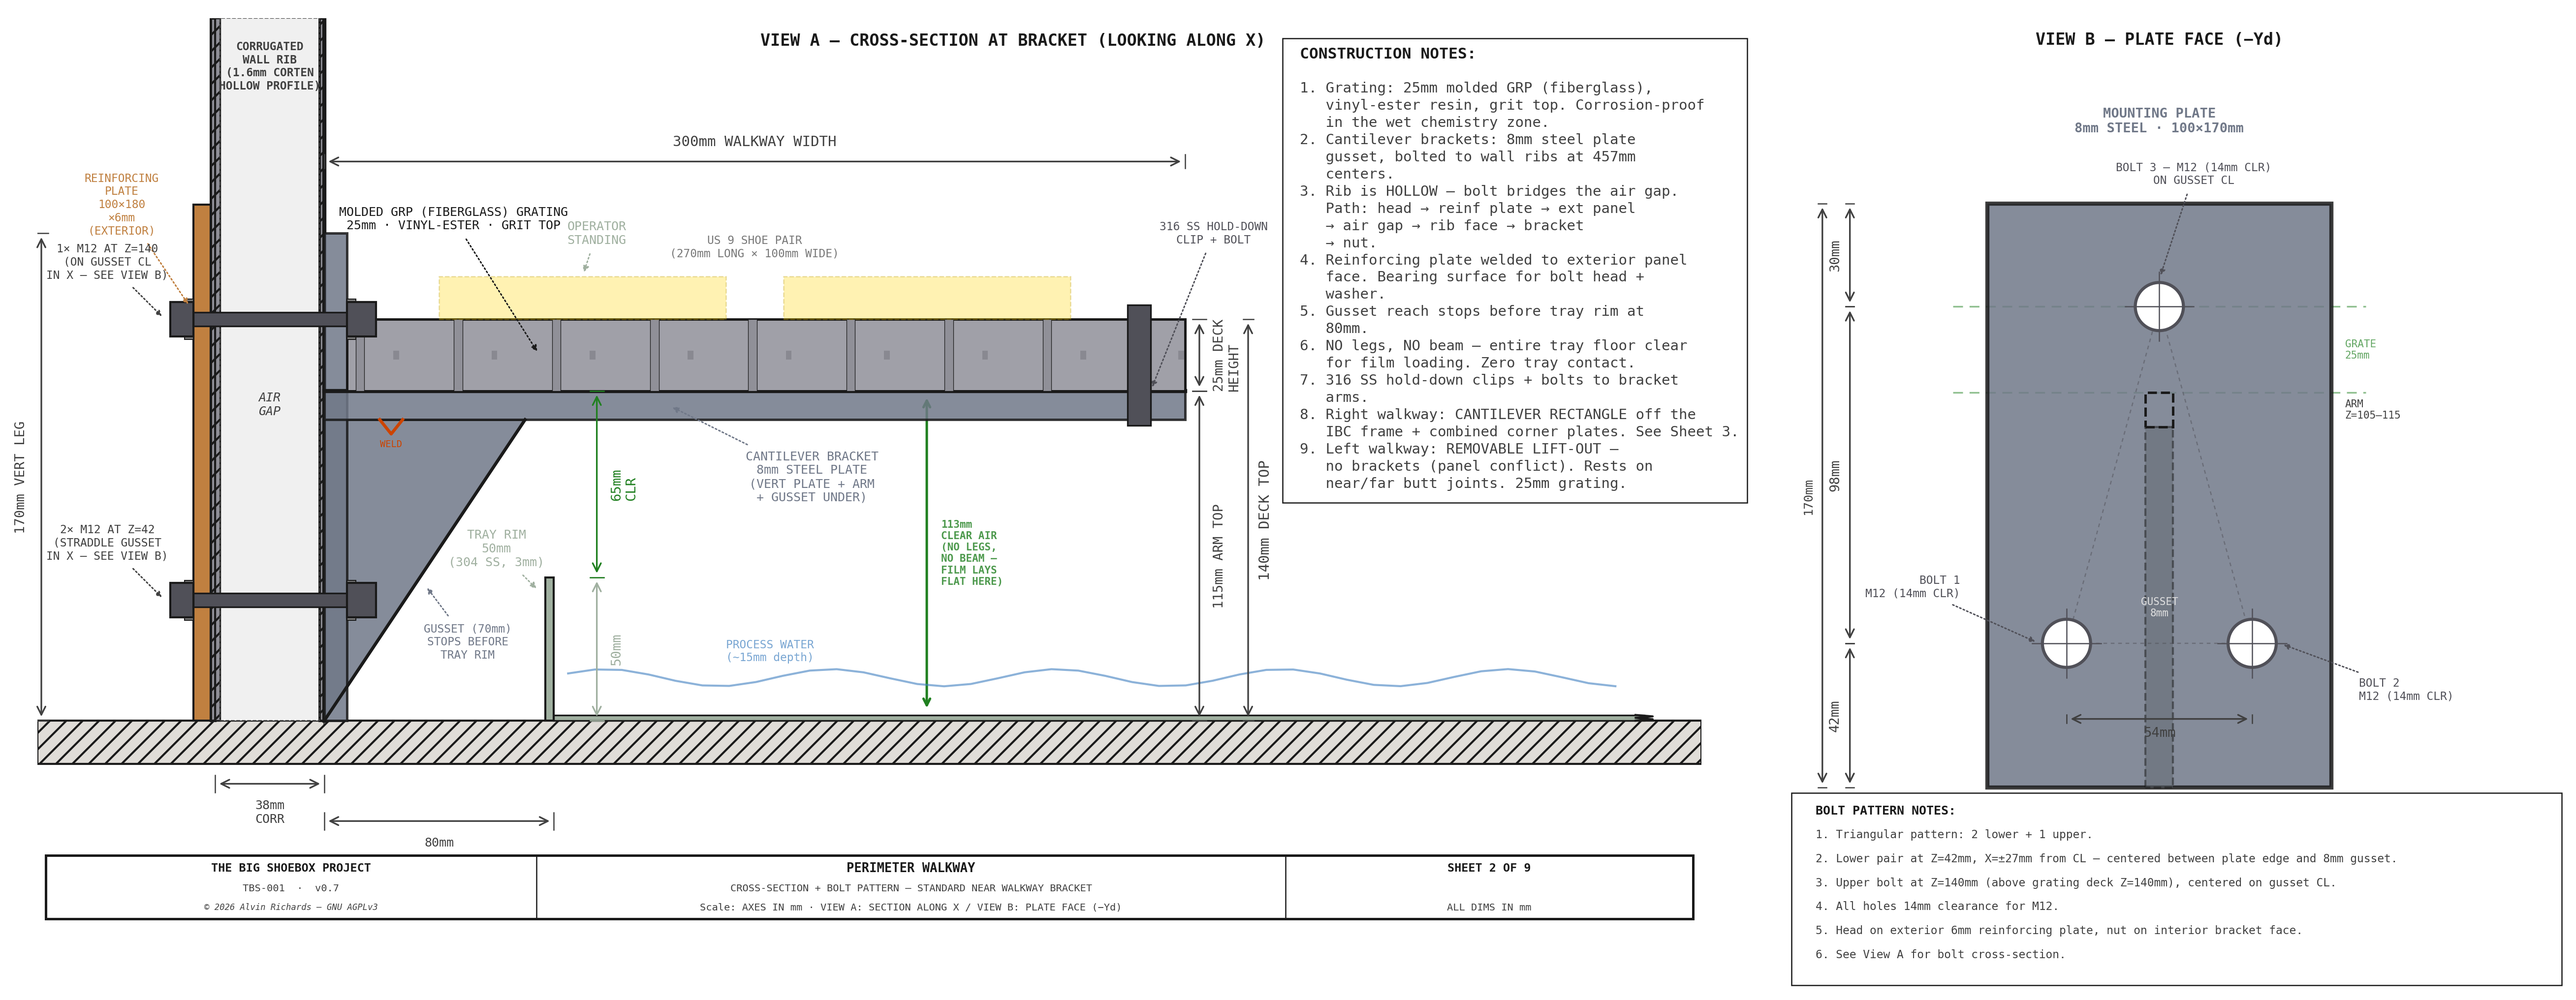
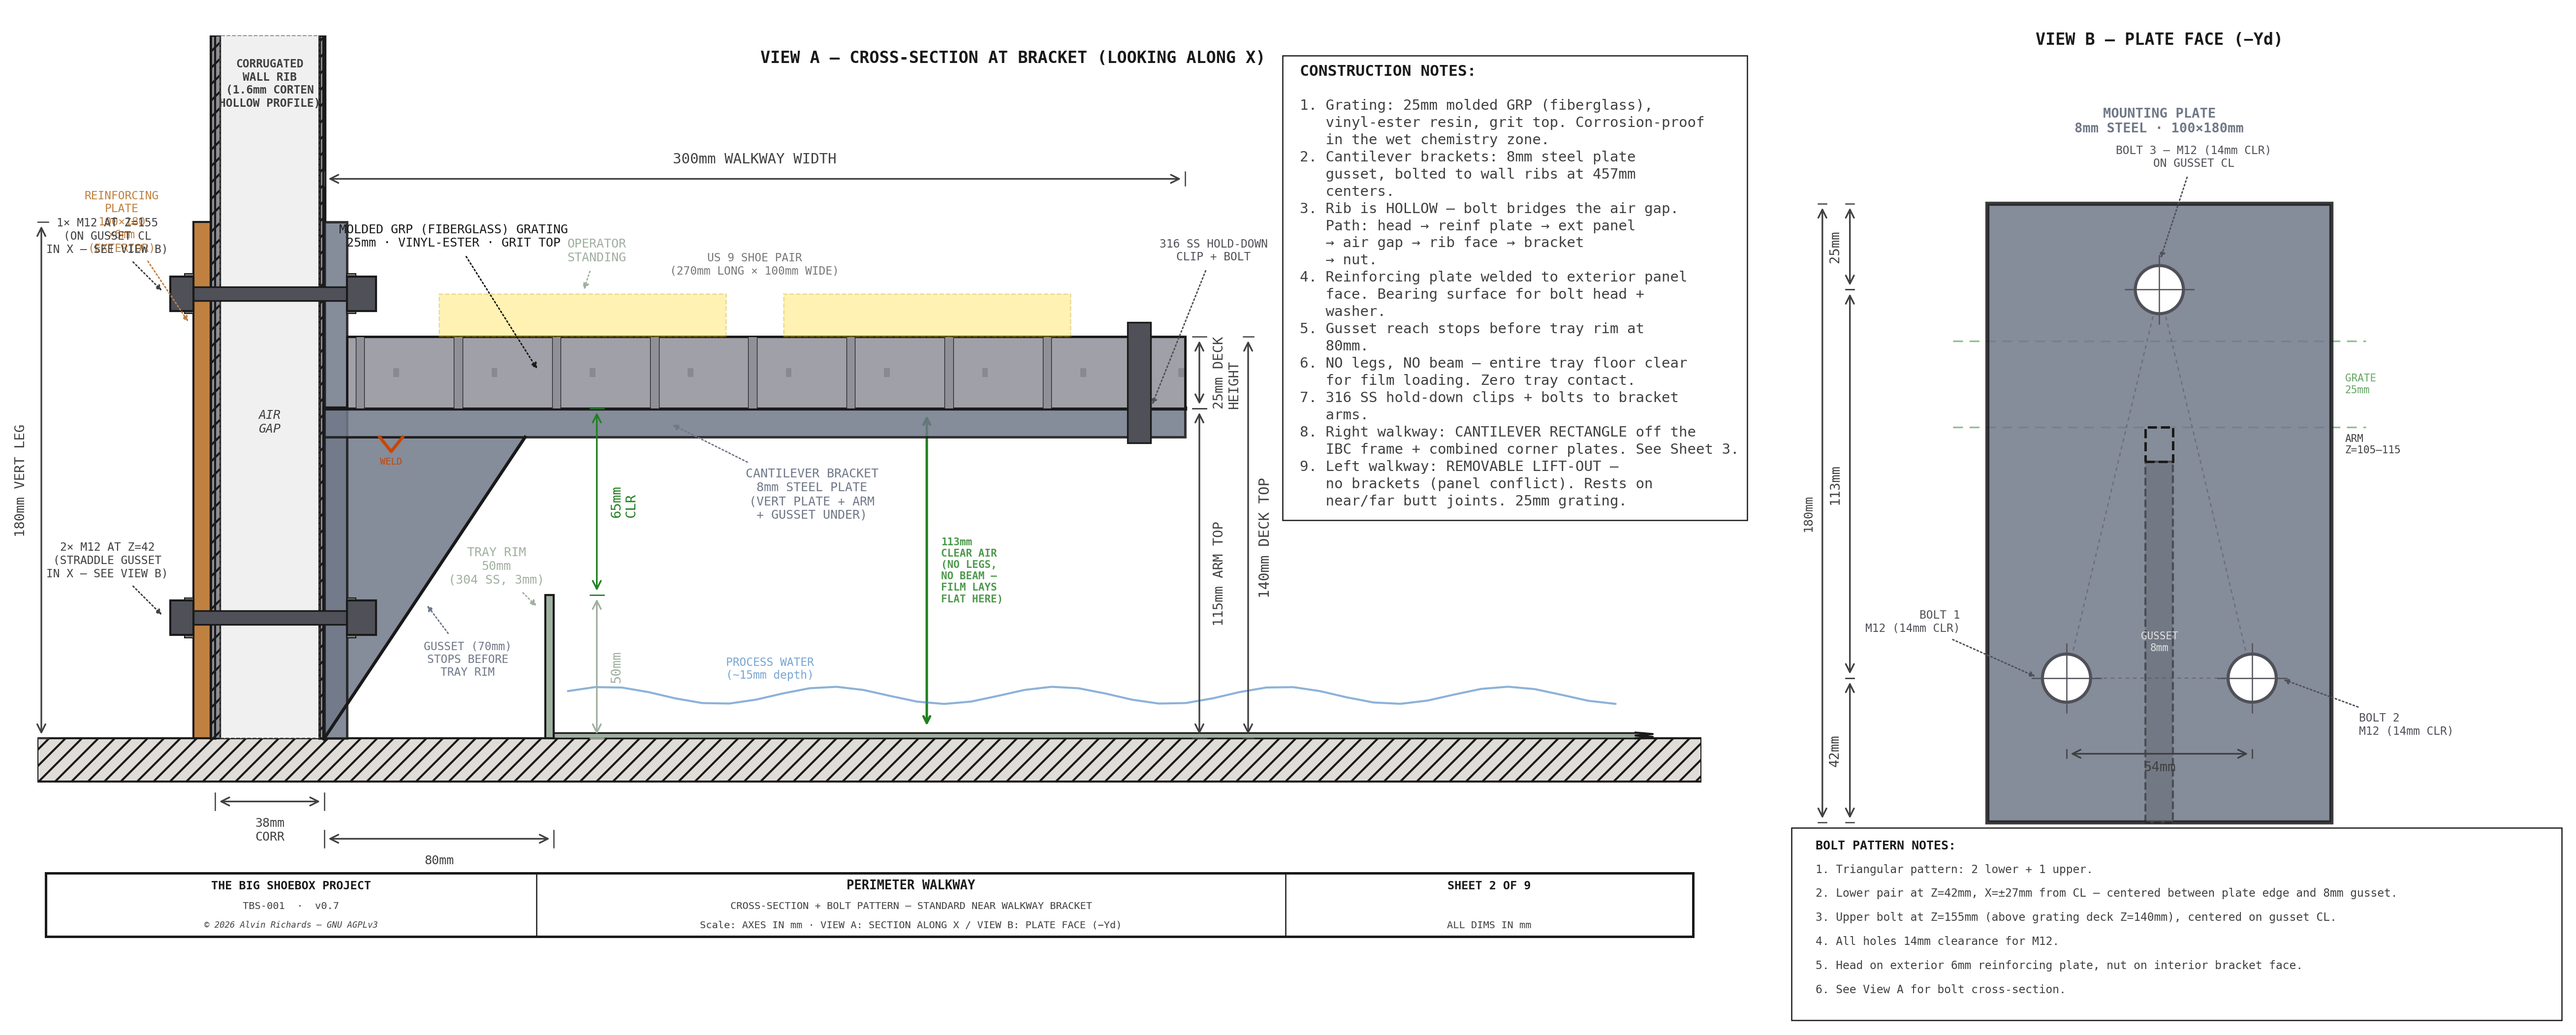
walkway sheet2/6/7 fixes: shared upper-bolt rule + sheet6 tray from constants
obs2 — bracket upper bolt was hitting the grate deck; sheet2 (leg-30) and sheet7
(fixed 160) used different rules:
- NEW WALKWAY_BRACKET_UPPER_BOLT_Z = WALKWAY_H+15 (155) — SHARED by std+widened,
  2D (sheet2/7) + 3D (_cantilever_parts); clears the grate top (140)
- WALKWAY_BRACKET_H 170->180 so the std leg holds it with >=1.5D top edge
- parts/report/dep-map reconciled to 180
obs1 — sheet6 View A drew the tray at hardcoded X170 (real PROC_TRAY_X_L=280) so
the post/arm read as interfering; now derived from PROC_TRAY_X_L + std_reach, xlim
widened so the arm tip (580) isn't clipped

WALKWAY_BRACKET_H + UPPER_BOLT_Z are 3D constants -> brackets re-send in the cascade.

diff --git a/src/generators/generate_walkway_diagram.py b/src/generators/generate_walkway_diagram.py
@@ -59,7 +59,7 @@ from matplotlib.patches import Rectangle, Circle, Polygon
 import os
 from tbs_title_block import title_block
 from tbs_drawing import draw_dim_h, draw_dim_v, leader, draw_notes, draw_legend
-from tbs_constants import C_LEN, C_WID, PROC_TRAY_X_L, PROC_TRAY_X_R, PROC_TRAY_W, PROC_TRAY_D, PROC_TRAY_YD_NEAR, PROC_TRAY_YD_FAR, PROC_TRAY_RIM, WALKWAY_W, WALKWAY_H, WALKWAY_GRATE_T, WALKWAY_BRACKET_H, WALKWAY_BRACKET_T, WALKWAY_BRACKET_SPACING, PIVOT_X, PIVOT_YD, SWING_LOCK_DEG, PANEL_CUT_YD, IBC_COL_X, IBC_W, CORRIDOR_YD_NEAR, CORRIDOR_YD_FAR, IBC_FRAME_RHS, RAIL_X_R, WALKWAY_NEAR_YD, WALKWAY_FAR_YD, WALKWAY_LEFT_X, WALKWAY_RIGHT_X, PROC_OPEN_X_L, PROC_OPEN_X_R, PROC_OPEN_YD_N, PROC_OPEN_YD_F, PROC_OPEN_AREA, PANEL_FLOOR_GAP, LEFT_WK_CANT_LEG_X, LEFT_WK_CANT_LEG_YDS, LEFT_WK_CANT_POST, LEFT_WK_CANT_POST_W, LEFT_WK_CANT_FOOT, LEFT_WK_CANT_FOOT_X0, LEFT_WK_CANT_FOOT_BOLT_N, LEFT_WK_CANT_FOOT_BOLT_DX, LEFT_WK_CANT_FOOT_BOLT_DY, LEFT_WK_CANT_ARM_Z0, LEFT_WK_CANT_ARM_W, LEFT_WK_CANT_ARM_W_WIDE, LEFT_WK_CANT_STD_REACH, LEFT_WK_CANT_WIDE_REACH, SPRAY_BAR_Z_BOT, SPRAY_BAR_Z_TOP, WALKWAY_NEAR_WIDE_W, WALKWAY_NEAR_WIDE_X_L, WALKWAY_NEAR_WIDE_X_R, WALKWAY_MAX_OVERHANG, WALKWAY_LEFT_WIDE_W, WALKWAY_LEFT_WIDE_YD_L, WALKWAY_LEFT_WIDE_YD_R, WALKWAY_WIDE_BRACKET_T, WALKWAY_WIDE_BRACKET_H, WALKWAY_MUSLIN_NOTCH_DX, WALKWAY_MUSLIN_NOTCH_DY, WALKWAY_MUSLIN_NOTCH_YD0, WALKWAY_MUSLIN_NOTCH_L_X0, WALKWAY_MUSLIN_NOTCH_R_X0, SPRAY_BAR_SLIT_W, EP_X, EP_W, BA_X, BA_W, EVAP_W, EVAP_D, EVAP_STOW_X, EVAP_STOW_YD, DIAGRAMS_DIR
+from tbs_constants import C_LEN, C_WID, PROC_TRAY_X_L, PROC_TRAY_X_R, PROC_TRAY_W, PROC_TRAY_D, PROC_TRAY_YD_NEAR, PROC_TRAY_YD_FAR, PROC_TRAY_RIM, WALKWAY_W, WALKWAY_H, WALKWAY_GRATE_T, WALKWAY_BRACKET_H, WALKWAY_BRACKET_UPPER_BOLT_Z, WALKWAY_BRACKET_T, WALKWAY_BRACKET_SPACING, PIVOT_X, PIVOT_YD, SWING_LOCK_DEG, PANEL_CUT_YD, IBC_COL_X, IBC_W, CORRIDOR_YD_NEAR, CORRIDOR_YD_FAR, IBC_FRAME_RHS, RAIL_X_R, WALKWAY_NEAR_YD, WALKWAY_FAR_YD, WALKWAY_LEFT_X, WALKWAY_RIGHT_X, PROC_OPEN_X_L, PROC_OPEN_X_R, PROC_OPEN_YD_N, PROC_OPEN_YD_F, PROC_OPEN_AREA, PANEL_FLOOR_GAP, LEFT_WK_CANT_LEG_X, LEFT_WK_CANT_LEG_YDS, LEFT_WK_CANT_POST, LEFT_WK_CANT_POST_W, LEFT_WK_CANT_FOOT, LEFT_WK_CANT_FOOT_X0, LEFT_WK_CANT_FOOT_BOLT_N, LEFT_WK_CANT_FOOT_BOLT_DX, LEFT_WK_CANT_FOOT_BOLT_DY, LEFT_WK_CANT_ARM_Z0, LEFT_WK_CANT_ARM_W, LEFT_WK_CANT_ARM_W_WIDE, LEFT_WK_CANT_STD_REACH, LEFT_WK_CANT_WIDE_REACH, SPRAY_BAR_Z_BOT, SPRAY_BAR_Z_TOP, WALKWAY_NEAR_WIDE_W, WALKWAY_NEAR_WIDE_X_L, WALKWAY_NEAR_WIDE_X_R, WALKWAY_MAX_OVERHANG, WALKWAY_LEFT_WIDE_W, WALKWAY_LEFT_WIDE_YD_L, WALKWAY_LEFT_WIDE_YD_R, WALKWAY_WIDE_BRACKET_T, WALKWAY_WIDE_BRACKET_H, WALKWAY_MUSLIN_NOTCH_DX, WALKWAY_MUSLIN_NOTCH_DY, WALKWAY_MUSLIN_NOTCH_YD0, WALKWAY_MUSLIN_NOTCH_L_X0, WALKWAY_MUSLIN_NOTCH_R_X0, SPRAY_BAR_SLIT_W, EP_X, EP_W, BA_X, BA_W, EVAP_W, EVAP_D, EVAP_STOW_X, EVAP_STOW_YD, DIAGRAMS_DIR
 from tbs_constants import DIAGRAM_DPI
 
 # ── Palette ───────────────────────────────────────────────────────────────────
@@ -729,7 +729,7 @@ def sheet2():
     WASHER_T  = 3
     C_BOLT    = "#505058"
     bolt_z_lo = 42   # lower pair — flanking gusset in X, ±27mm from CL (matches the 3D pattern)
-    bolt_z_hi = BRKT_VERT - 30  # = 140 — upper single, 30mm below the plate top (matches the 3D vh−30 far cantilevers); clears the arm top (Z115)
+    bolt_z_hi = WALKWAY_BRACKET_UPPER_BOLT_Z  # = 155 — SHARED with sheet7 + the 3D; clears the grate deck top (Z140)
 
     for bz in [bolt_z_lo, bolt_z_hi]:
         shank_hw = BOLT_R * 0.4  # half-width of shank in Z
@@ -1672,17 +1672,19 @@ def sheet6():
         ax.set_aspect("equal"); ax.axis("off")
 
     # ===================== VIEW A — bracket section (X-Z) =====================
-    axA.set_xlim(0, 560)
+    TX = PROC_TRAY_X_L                 # real tray LEFT edge (280) — the floor-leg post/arm sit outboard/over it
+    XW = int(std_reach + 120)          # view width — reach to the arm tip (grate inner edge) + margin
+    axA.set_xlim(0, XW)
     axA.set_ylim(-95, 205)
-    axA.text(280, 196, "VIEW A — FLOOR-LEG CANTILEVER BRACKET (section, looking along Yd)",
+    axA.text(XW / 2, 196, "VIEW A — FLOOR-LEG CANTILEVER BRACKET (section, looking along Yd)",
              ha="center", va="bottom", fontsize=8, color=C_OUT, fontweight="bold", **FONT)
     # Container floor (hatched)
-    axA.add_patch(Rectangle((0, -14), 560, 14, fc=C_FLOOR, ec=C_OUT, lw=1.0, hatch="///", zorder=2))
-    # Processing tray — near rim wall at X=170 (Z0-50), floor + bath to its right
-    axA.add_patch(Rectangle((170, 0), 4, rim, fc=C_STEEL, ec=C_OUT, lw=1.0, zorder=4))
-    axA.add_patch(Rectangle((174, 0), 560 - 174, 2, fc=C_STEEL, ec=C_OUT, lw=0.6, zorder=3))
-    axA.add_patch(Rectangle((174, 2), 560 - 174, rim - 2 - 8, fc="#BFE0F0", ec="none", alpha=0.45, zorder=2))
-    leader(axA, 172, rim, 240, rim - 5, "PROCESSING TRAY RIM\n(Z0-50, STAYS at floor level)",
+    axA.add_patch(Rectangle((0, -14), XW, 14, fc=C_FLOOR, ec=C_OUT, lw=1.0, hatch="///", zorder=2))
+    # Processing tray — near rim wall at X=PROC_TRAY_X_L (Z0-50), floor + bath to its right
+    axA.add_patch(Rectangle((TX, 0), 4, rim, fc=C_STEEL, ec=C_OUT, lw=1.0, zorder=4))
+    axA.add_patch(Rectangle((TX + 4, 0), XW - (TX + 4), 2, fc=C_STEEL, ec=C_OUT, lw=0.6, zorder=3))
+    axA.add_patch(Rectangle((TX + 4, 2), XW - (TX + 4), rim - 2 - 8, fc="#BFE0F0", ec="none", alpha=0.45, zorder=2))
+    leader(axA, TX + 2, rim, TX + 70, rim - 5, "PROCESSING TRAY RIM\n(Z0-50, STAYS at floor level)",
            color=C_OUT, fs=5.5, ha="center", va="bottom", arrow_style="-|>", font=FONT)
     # Foot plate (on bare floor, outboard of the tray)
     axA.add_patch(Rectangle((fx0, 0), fl, ft, fc=C_STEEL, ec=C_OUT, lw=1.2, zorder=6))
@@ -1698,7 +1700,7 @@ def sheet6():
            f"CANTILEVER ARM 40mm DEEP\n(Z{arm_z0}-{grate_bot}); EXTENDED\nto X770 on the punch-out",
            color=C_OUT, fs=5.5, ha="center", va="bottom", arrow_style="-|>", font=FONT)
     # Grate (sits on the arm/post tops)
-    axA.add_patch(Rectangle((170, grate_bot), std_reach - 170, grate_top - grate_bot,
+    axA.add_patch(Rectangle((TX, grate_bot), std_reach - TX, grate_top - grate_bot,
                             fc=C_STEEL, ec=C_OUT, lw=1.0, hatch="xx", alpha=0.85, zorder=8))
     leader(axA, 430, grate_top, 445, grate_top + 30, f"{WALKWAY_GRATE_T}mm GRATE (lift-out)",
            color=C_OUT, fs=5.5, ha="center", va="bottom", arrow_style="-|>", font=FONT)
@@ -1950,7 +1952,7 @@ def sheet7():
 
     # ── Through-bolts (4× M12 rectangular pattern: 2 lower + 2 upper) ───────
     bolt_z_lo = 35
-    bolt_z_hi = 160
+    bolt_z_hi = WALKWAY_BRACKET_UPPER_BOLT_Z  # = 155 — SHARED with sheet2 + the 3D (same rule: clears the grate deck)
     BOLT_HEAD = 8
     NUT_H     = 10
     WASHER_T  = 3

diff --git a/src/generators/tbs_constants.py b/src/generators/tbs_constants.py
@@ -910,7 +910,8 @@ WALKWAY_NEAR_LIFTOUT_X_R = 950  # the NEAR deck's door-end band (X≈470–950, 
 # Container structural rib spacing (ISO standard 20ft container)
 CONTAINER_RIB_SPACING = 457   # mm (18 inches) — vertical corrugation flanges
 # Wall-mounted cantilever brackets
-WALKWAY_BRACKET_H = 170  # bracket vertical leg height on wall (mm) — raised 150→170 so the upper 3rd-bolt clears the cantilever arm (Alvin 2026-08-18)
+WALKWAY_BRACKET_H = 180  # bracket vertical leg height on wall (mm) — raised 150→170→180 so the upper wall-bolt clears the grate DECK (not just the arm); holds the shared WALKWAY_BRACKET_UPPER_BOLT_Z with ≥1.5·D top edge (Alvin 2026-08-18)
+WALKWAY_BRACKET_UPPER_BOLT_Z = WALKWAY_H + 15  # 155 — upper wall-bolt Z, SHARED by standard + widened brackets (2D sheets 2/7 + 3D _cantilever_parts). Sits 15mm above the grate top (WALKWAY_H) so the nut clears the deck. Both legs (std 180 / widened 200) hold it with ≥1.5·D top edge.
 WALKWAY_BRACKET_T = 8    # bracket plate thickness (mm)
 WALKWAY_BRACKET_SPACING = CONTAINER_RIB_SPACING  # bracket spacing along walkway (mm)
 # rev10: the panel + drum SWING ~56° about the pivot for transport and the swinging cage

diff --git a/src/generators/parts.py b/src/generators/parts.py
@@ -967,7 +967,7 @@ PARTS: list[Part] = [
          "walkway", 1, "lot", 50, 65, "McNichols", spec="Extra GRP landing (~0.23 m²) at the light-lock exit"),
     Part("walkway-std-brackets", "Cantilever bracket — standard (near/far)", "steel-structural",
          "walkway", 13, "ea", 30, 50, "Local fab",
-         spec="8mm steel plate: 170mm vert leg + 300mm arm + 70mm gusset, welded (4 near + 9 far at 457mm centers)"),
+         spec="8mm steel plate: 180mm vert leg + 300mm arm + 70mm gusset, welded (4 near + 9 far at 457mm centers)"),
     Part("walkway-wide-brackets", "Cantilever bracket — widened (near)", "steel-structural",
          "walkway", 5, "ea", 40, 70, "Local fab",
          spec="10mm steel plate: 200mm vert leg + 500mm arm + 70mm gusset, welded (EP/battery/slit zone, X1055–3083 = 5 bays)"),

diff --git a/src/models/generate_walkway_model.py b/src/models/generate_walkway_model.py
@@ -235,8 +235,9 @@ def _cantilever_parts(nm, x, wall_yd, sign, reach, wide):
     gusset_reach = 70
     # Bolt patterns (X offset, Z): standard 3 (triangular); widened 4 (rectangular,
     # per Sheet 7: lower pair Z=35, upper pair Z=160, both ±32mm from CL).
-    bolt_pat_std  = [(0, vh - 30), (-32, 42), (32, 42)]
-    bolt_pat_wide = [(-32, 35), (32, 35), (-32, 160), (32, 160)]
+    _ubz = k.WALKWAY_BRACKET_UPPER_BOLT_Z   # 155 — upper bolt clears the grate deck (SHARED std + widened)
+    bolt_pat_std  = [(0, _ubz), (-32, 42), (32, 42)]
+    bolt_pat_wide = [(-32, 35), (32, 35), (-32, _ubz), (32, _ubz)]
 
     b   = btw if wide else bt                       # plate/arm/gusset thickness
     v   = vhw if wide else vh                        # vertical leg height

diff --git a/walkway-report.md b/walkway-report.md
@@ -69,7 +69,7 @@ Each bracket is a three-piece welded 8mm steel plate assembly:
 
 | Component | Dimensions | Function |
 |-----------|-----------|----------|
-| Vertical mounting plate | 8×170mm (height), flat against wall rib | Bolted to container corrugation rib interior face |
+| Vertical mounting plate | 8×180mm (height), flat against wall rib | Bolted to container corrugation rib interior face |
 | Horizontal arm | 8mm plate, 300mm cantilever (500mm in widened zone) | Supports grating |
 | Triangular gusset | Right triangle, 70mm reach from wall | Braces arm from below; reach stops before tray rim |
 
@@ -115,7 +115,7 @@ pinhole-side counterpart to the left drum-exit punch-out (Sheet 5).
 | Parameter | Standard bracket | Widened bracket |
 |-----------|-----------------|-----------------|
 | Plate thickness | 8mm | 10mm |
-| Vertical leg height | 170mm | 200mm |
+| Vertical leg height | 180mm | 200mm |
 | Arm reach | 300mm | 500mm |
 | Gusset reach | 70mm | 70mm (tray rim constrained) |
 | Bolt pattern | 3x M12 triangular (2+1) | 4x M12 rectangular (2+2) |
@@ -460,7 +460,7 @@ bounces noticeably less than the rod-hung version it replaces.
 | Molded GRP grating (American Grating, cut-to-size) | 1" MS-S-100 vinyl-ester grit, ~48 ft² cut to the walkway sections. PRIMARY: American Grating public list ≈ $830 (2× 3'×10' @ $415); band to $1,050 covers freight + edge cut — firm cut quote + SoCal freight still to confirm. SECONDARY (firm, shipped): McNichols 2× 48"×144" @ $796.77 = $1,593.54 + freight → $2,049.98 shipped (firm 2026-07-24) — ~2× the American list; held as the firm fallback while the American quote is pending. NB McNichols' sheet is 4'×12' (bigger than the American 3'×10'), so switching to it would re-nest the cut plan. Cut plan: grp-grating-quote.md. | 1 lot | American Grating / McNichols | $830–$1,050 |
 | GRP grating edge-seal kit | Fibergrate Sealing & Bonding Kit — molded FRP cut edges are field-SEALED (epoxy), not snap-trimmed; ½-pint kit seals ~20–40 linear ft of cut edge. | 1 kit | Fibergrate | $40–$60 |
 | Drum-exit punch-out grating | Extra GRP landing (~0.23 m²) at the light-lock exit | 1 lot | McNichols | $50–$65 |
-| Cantilever bracket — standard (near/far) | 8mm steel plate: 170mm vert leg + 300mm arm + 70mm gusset, welded (4 near + 9 far at 457mm centers) | 13 ea | Local fab | $390–$650 |
+| Cantilever bracket — standard (near/far) | 8mm steel plate: 180mm vert leg + 300mm arm + 70mm gusset, welded (4 near + 9 far at 457mm centers) | 13 ea | Local fab | $390–$650 |
 | Cantilever bracket — widened (near) | 10mm steel plate: 200mm vert leg + 500mm arm + 70mm gusset, welded (EP/battery/slit zone, X1055–3083 = 5 bays) | 5 ea | Local fab | $200–$350 |
 | [M12×65 hex through-bolt, Grade 8.8 zinc, partial-thread](https://www.mcmaster.com/91280A728/) (91280A728) | Cantilever-bracket wall bolts (3 per std + 4 per widened), sized for the 30mm-corrugation grip (~48–50mm), partial thread. Pad with 1–2 M12 flat washers if the actual container corrugation is <30mm. | 59 ea | McMaster-Carr | $94 |
 | [M12 hex nut, plain](https://www.mcmaster.com/90591A181/) (90591A181) | Plain hex nut — M12×65 cantilever bolts (+ split lock washer). $12.78/pack of 50. Pitch M12×1.75 coarse — confirmed vs 90591A181 PDF 2026-07-29. | 59 ea | McMaster-Carr | $15 |

diff --git a/component-dependency-map.md b/component-dependency-map.md
@@ -385,7 +385,7 @@ Permanently installed — no removal for transport mode conversion.*
 | Walkway width | <!-- BEGIN cdm:WALKWAY_W -->300<!-- END cdm:WALKWAY_W -->mm | `WALKWAY_W` |
 | Deck height | <!-- BEGIN cdm:WALKWAY_H -->140<!-- END cdm:WALKWAY_H -->mm | `WALKWAY_H` |
 | Grate thickness (all sections) | <!-- BEGIN cdm:WALKWAY_GRATE_T -->25<!-- END cdm:WALKWAY_GRATE_T -->mm | `WALKWAY_GRATE_T` |
-| Bracket vertical leg | <!-- BEGIN cdm:WALKWAY_BRACKET_H -->170<!-- END cdm:WALKWAY_BRACKET_H -->mm | `WALKWAY_BRACKET_H` |
+| Bracket vertical leg | <!-- BEGIN cdm:WALKWAY_BRACKET_H -->180<!-- END cdm:WALKWAY_BRACKET_H -->mm | `WALKWAY_BRACKET_H` |
 | Bracket plate thickness | <!-- BEGIN cdm:WALKWAY_BRACKET_T -->8<!-- END cdm:WALKWAY_BRACKET_T -->mm | `WALKWAY_BRACKET_T` |
 | Bracket spacing | <!-- BEGIN cdm:WALKWAY_BRACKET_SPACING -->457<!-- END cdm:WALKWAY_BRACKET_SPACING -->mm | `WALKWAY_BRACKET_SPACING` |
 | Container rib spacing | <!-- BEGIN cdm:CONTAINER_RIB_SPACING -->457<!-- END cdm:CONTAINER_RIB_SPACING -->mm | `CONTAINER_RIB_SPACING` |
